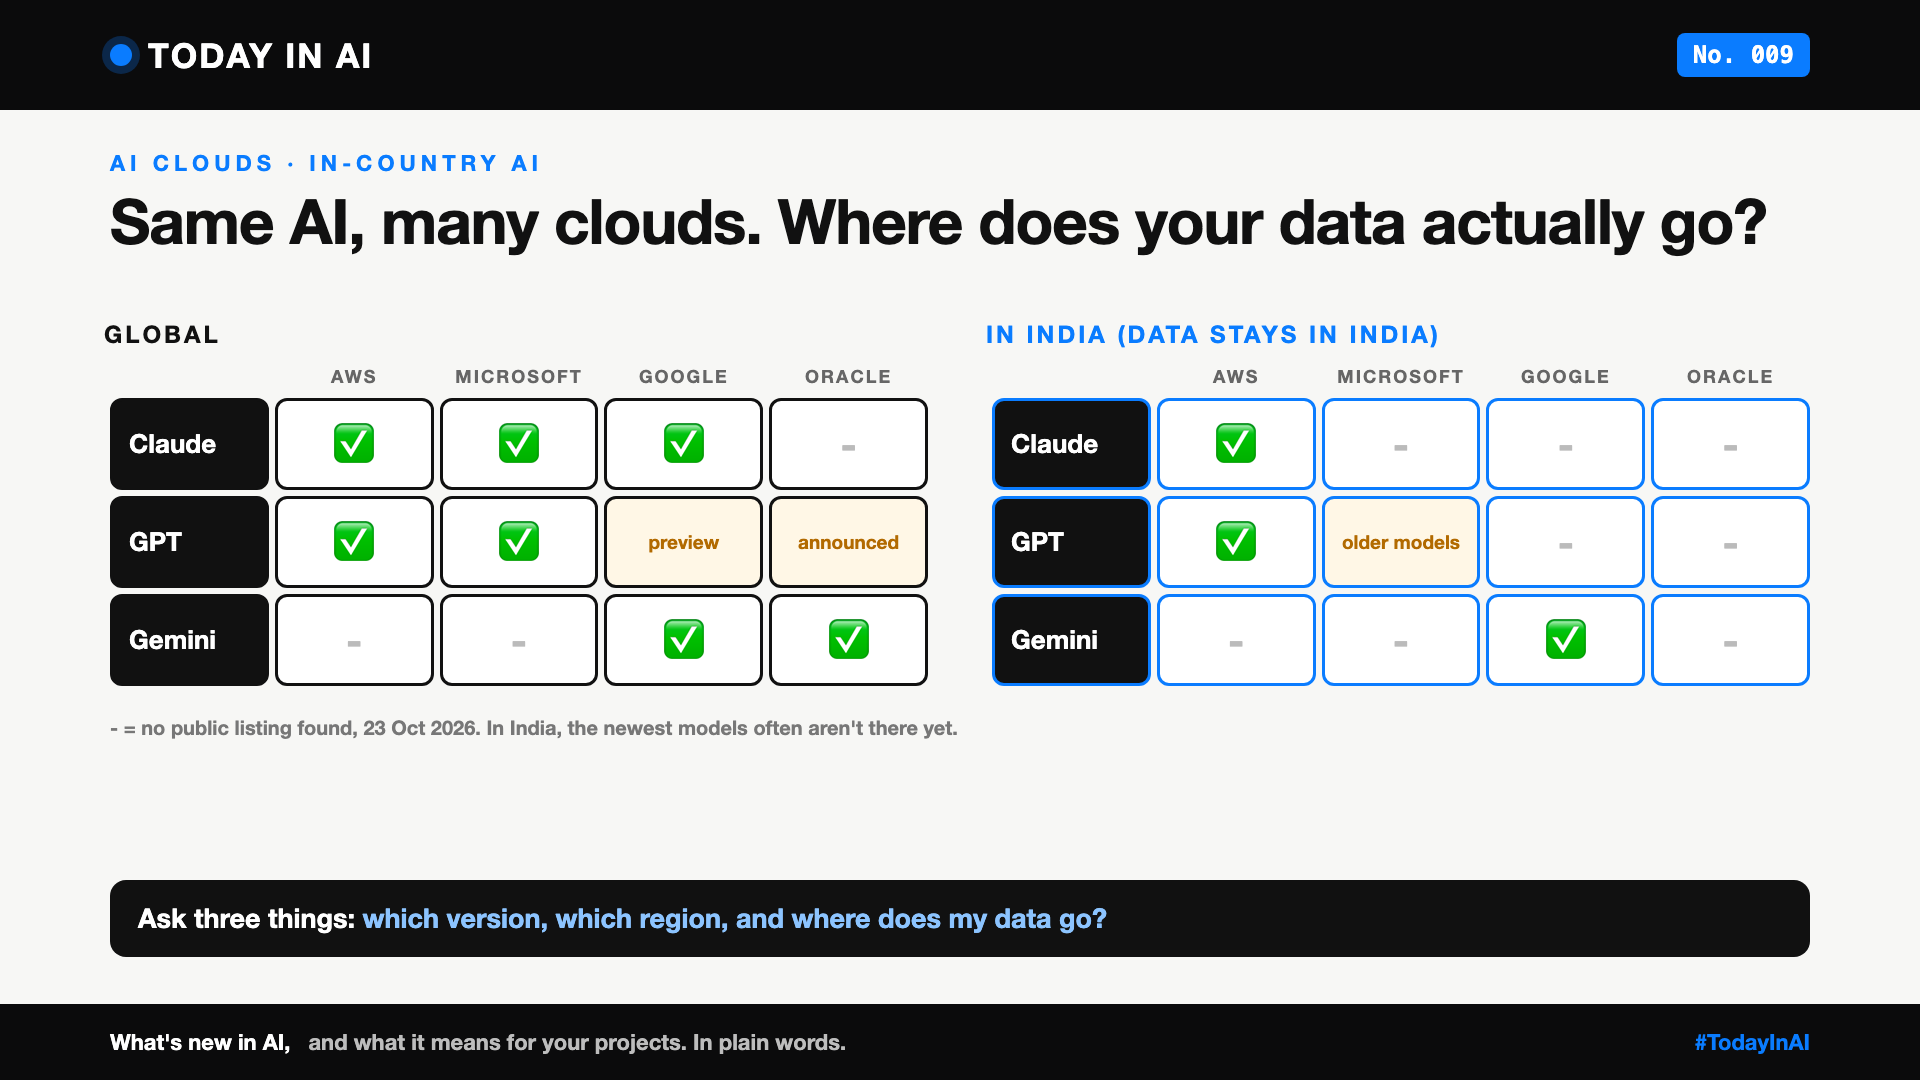
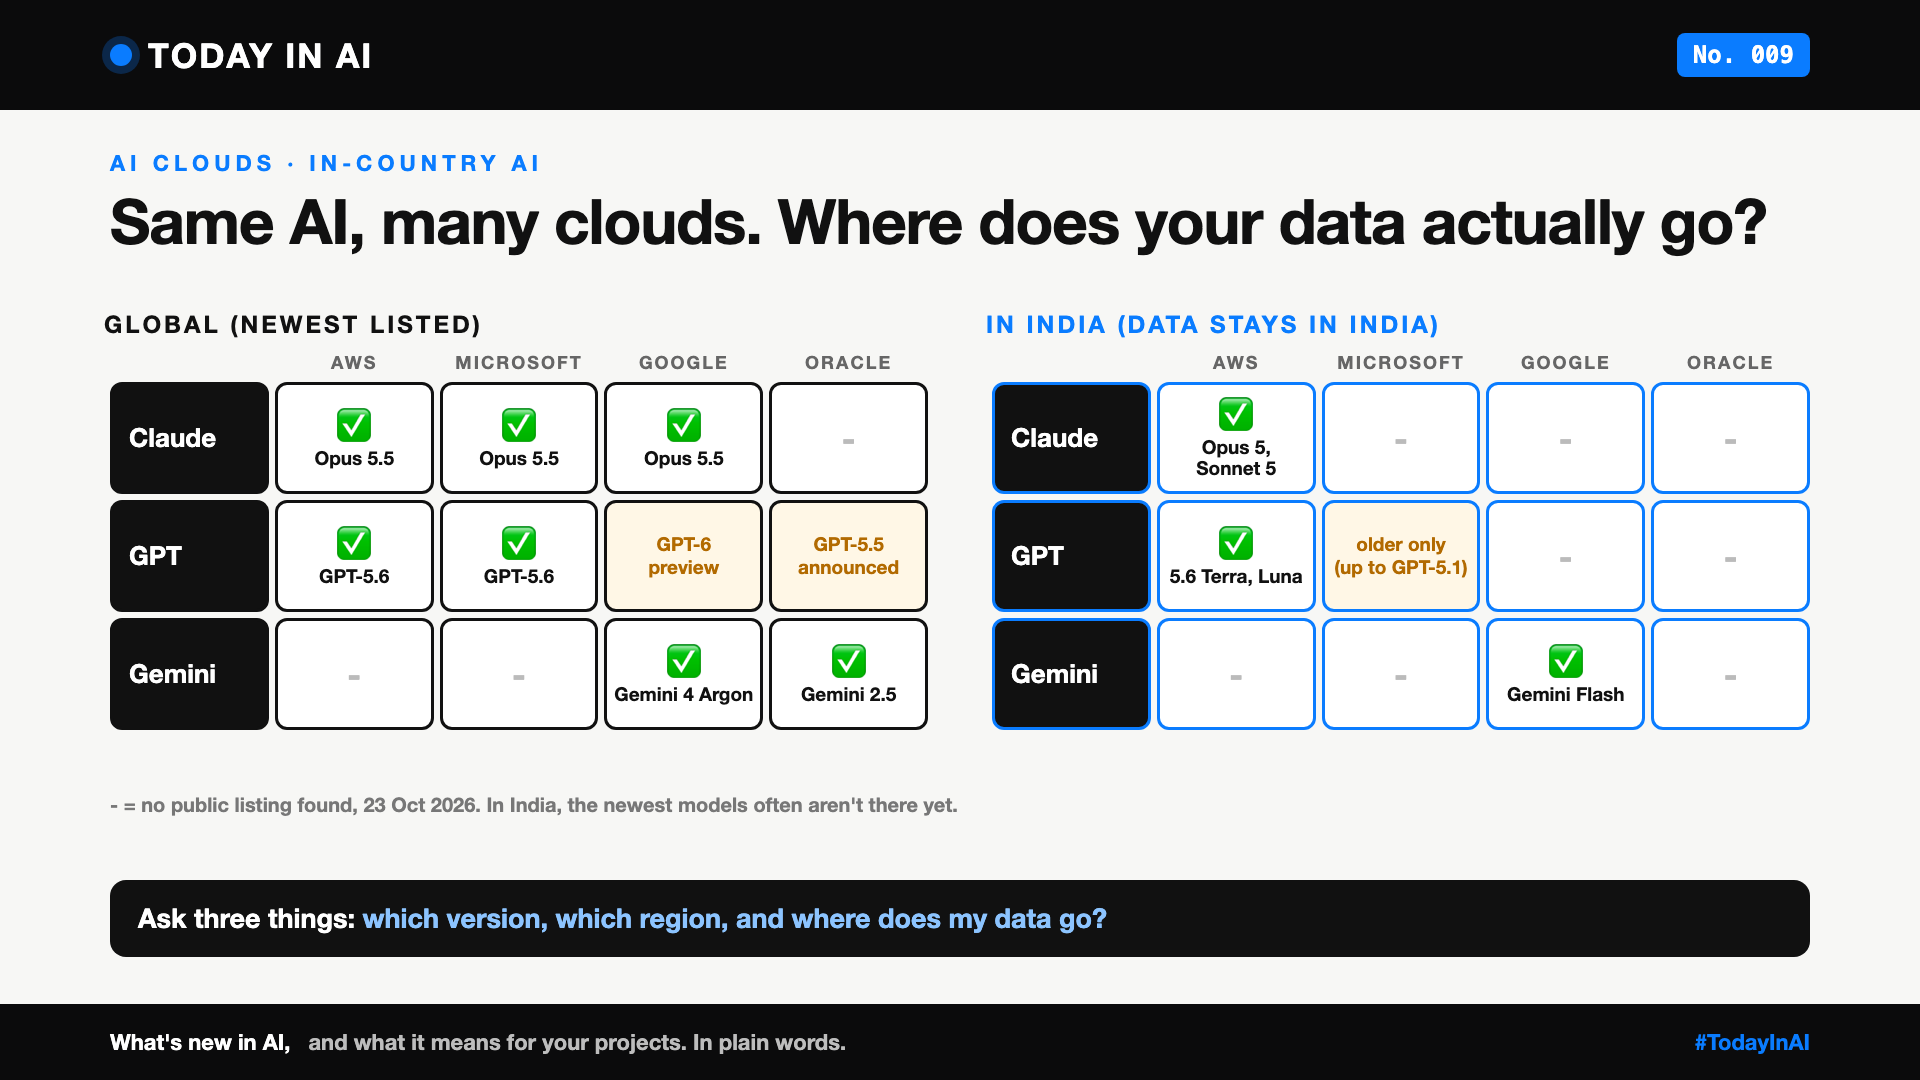
Today in AI 009: model names in cover and article

Changed region(s): [[0.0312, 0.275, 0.9375, 0.7028], [0.0625, 0.7333, 0.5, 0.7639]]

diff --git a/20-today-in-ai/009-same-ai-many-clouds.md b/20-today-in-ai/009-same-ai-many-clouds.md
@@ -16,19 +16,19 @@
 
 **Global:**
 
-- **AWS:** Claude ✅ [12], GPT ✅ [6]. Gemini ➖.
-- **Microsoft:** GPT ✅ [7], Claude ✅ [4]. Gemini ➖.
-- **Google Cloud:** Gemini ✅, Claude ✅ [5], GPT 🟡 preview [3].
-- **Oracle:** Gemini ✅ [9], GPT 🟡 announced [8], Claude ➖.
+- **AWS:** Claude ✅ Opus 5.5, Opus 5, Sonnet 5, Haiku 4.5 [1, 12]. GPT ✅ GPT-5.6 Sol, Terra, Luna [6]. Gemini ➖.
+- **Microsoft:** GPT ✅ GPT-5.6 Sol, Terra, Luna [7]. Claude ✅ Opus 5.5, Sonnet 5.5, Haiku 5.5 [4]. Gemini ➖.
+- **Google Cloud:** Gemini ✅ Gemini 4 Argon, Gemini 3.8 Flash [14]. Claude ✅ Opus 5.5, Sonnet 5.5, Haiku 5.5 [5]. GPT 🟡 GPT-6 Astra, GPT-6.1 Sol, GPT-6 Luna, private preview [3].
+- **Oracle:** Gemini ✅ Gemini 2.5 Pro, Flash, Flash-Lite [9]. GPT 🟡 GPT-5.5, announced [8]. Claude ➖.
 
 **In India, with data staying in India:**
 
-- **AWS:** Claude ✅ (Opus 5, Sonnet 5, Haiku 4.5) [1], GPT ✅ (Terra, Luna) [2].
+- **AWS:** Claude ✅ Opus 5, Sonnet 5, Haiku 4.5 [1]. GPT ✅ GPT-5.6 Terra, Luna [2].
 - **Microsoft:** GPT 🟡 older models only, up to GPT-5.1 and GPT-5.4 mini [10]. Claude ➖ (global or US only) [4].
-- **Google Cloud:** Gemini ✅ (Gemini Flash) [11, 13].
+- **Google Cloud:** Gemini ✅ Gemini Flash [11, 13].
 - **Oracle:** ➖.
 
-*➖ = no public listing found. Catalogs change often.*
+*Newest models listed, not every model. ➖ = no public listing found. Catalogs change often.*
 
 ## What it means
 
@@ -65,6 +65,7 @@ New dishes reach some branches later. Claude Opus 5.5 is on AWS, Microsoft and G
 11. IBEF, "Google expands AI infrastructure in India with local hosting of Gemini models", 9 July 2026. [Read it](https://www.ibef.org/news/google-expands-ai-infrastructure-in-india-with-local-hosting-of-gemini-models)
 12. AWS, "Claude Opus 5.5 is now available on AWS". [Read it](https://aws.amazon.com/blogs/machine-learning/claude-opus-5-5-is-now-available-on-aws/) (primary source)
 13. Google Cloud, "Supporting Viksit Bharat: announcing AI investments in India", 11 November 2025 (Gemini 2.5 Flash with processing in India). [Read it](https://cloud.google.com/blog/products/gcp/supporting-viksit-bharat-announcing-ai-investments-in-india) (primary source)
+14. Google Cloud, "Gemini Enterprise Agent Platform release notes" (Gemini 4 Argon GA 13 October 2026; Gemini 3.8 Flash GA 2 September 2026). [Read it](https://docs.cloud.google.com/gemini-enterprise-agent-platform/release-notes) (primary source)
 
 Credit to Anthropic, OpenAI, AWS, Microsoft, Google Cloud and Oracle for their public announcements and documentation, and to the reporters at Analytics India Magazine, Business Standard, CNBC, TechWire Asia and IT Brief and IBEF. Facts come from these sources, checked on 23 October 2026; the cloud list is my summary of them, and the opinions are mine. Cover: original illustration, no third-party logos or images.
 
